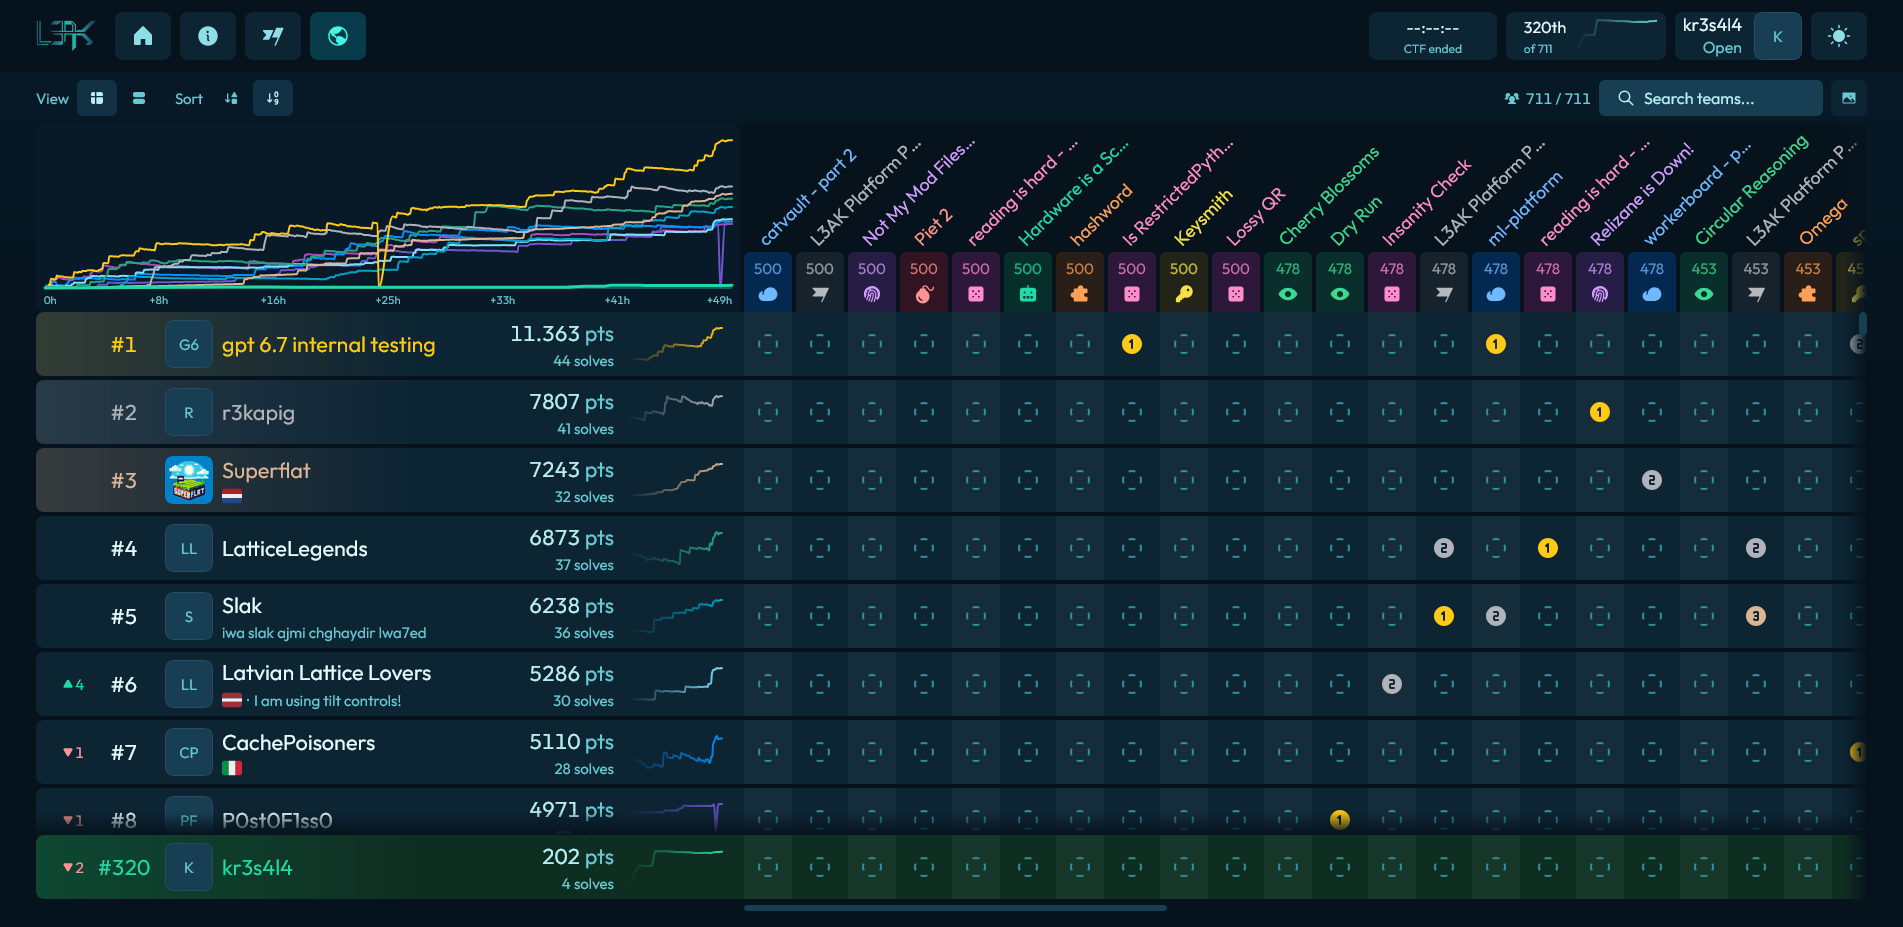
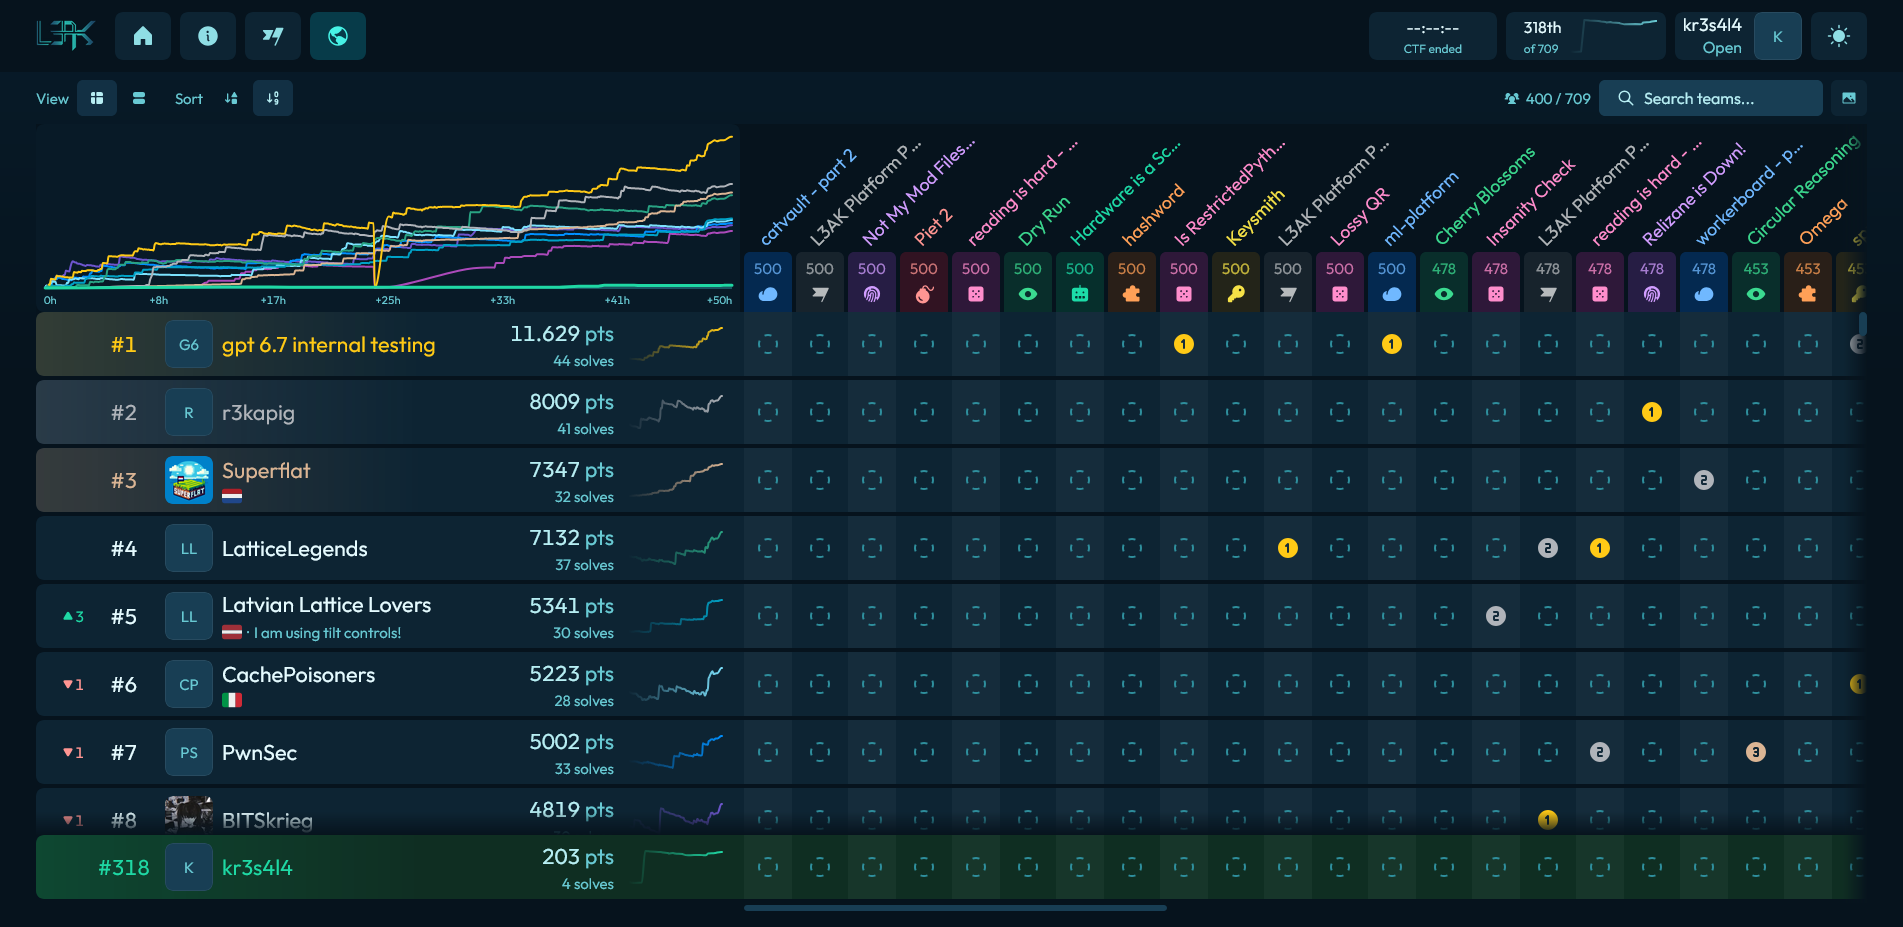
Actualizar L3akCTF_2026 y README

diff --git a/2026/L3akCTF_2026/README.md b/2026/L3akCTF_2026/README.md
@@ -6,8 +6,8 @@
 | **Modalidad** | Online |
 | **Organiza** | L3akCTF |
 | **Equipo** | kr3s4l4 (Captain) |
-| **Puesto** | #320 de 711 |
-| **Puntuación** | 202 pts |
+| **Puesto** | #318 de 709 |
+| **Puntuación** | 203 pts |
 
 ## 🚩 Retos Resueltos
 
@@ -15,7 +15,7 @@
 |------|-----------|--------|---------|---------|
 | Sanity Check | Beginner | 1 | Lectura de reglas del torneo | [Ver](writeups/Sanity_Check/README.md) |
 | Get The Flag | Web | 65 | Method override + CSRF bypass, cambio de contraseña de admin | [Ver](writeups/Get_The_Flag/README.md) |
-| CatVault - Part 1 | Web | 61 | Inyección SQL (UNION SELECT), manipulación de sesión vía API | [Ver](writeups/catvault-part1/README.md) |
+| CatVault - Part 1 | Web | 62 | Inyección SQL (UNION SELECT), manipulación de sesión vía API | [Ver](writeups/catvault-part1/README.md) |
 | Zebda | Web | 75 | Bypass de parsers YAML (js-yaml vs PyYAML), ofuscación Unicode | [Ver](writeups/Zebda/README.md) |
 
 ## 🛠 Técnicas Utilizadas
@@ -32,7 +32,7 @@
 | Categoría | Retos | Puntos |
 |-----------|-------|--------|
 | Beginner | 1 | 1 |
-| Web | 3 | 201 |
+| Web | 3 | 202 |
 | **Total** | **4** | **200** |
 
 ## 📈 Progreso Temporal
@@ -42,7 +42,7 @@
 | 1 ago | --:-- | Sanity Check | 1 |
 | 1 ago | --:-- | Get The Flag | 65 |
 | 1 ago | --:-- | Zebda | 75 |
-| 2 ago | --:-- | CatVault - Part 1 | 61 |
+| 2 ago | --:-- | CatVault - Part 1 | 62 |
 
 ## 🛠 Herramientas Utilizadas
 

diff --git a/README.md b/README.md
@@ -8,10 +8,10 @@ Bienvenido a mi repositorio de torneos CTF.
 |--------|-------|--------|--------|-------|
 | [No Hacking No CTF 2026](2026/No-Hacking-No-CTF-2026/) | 4-6 jul | #112 | 879 | 6 |
 | [BroncoCTF 2026](2026/BroncoCTF_2026/) | 11-12 jul | #336 | 178 | 8 |
-| [L3akCTF 2026](2026/L3akCTF_2026/) | 31 jul-2 ago | #320 | 202 | 4 |
+| [L3akCTF 2026](2026/L3akCTF_2026/) | 31 jul-2 ago | #318 | 203 | 4 |
 
 ## 📊 Estadísticas
 
 | Año | Torneos | Retos | Puntos |
 |-----|---------|-------|--------|
-| 2026 | 3 | 18 | 1259 |
+| 2026 | 3 | 18 | 1260 |
